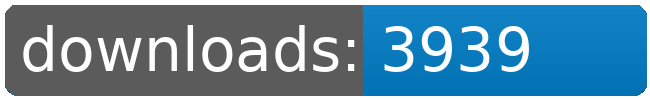
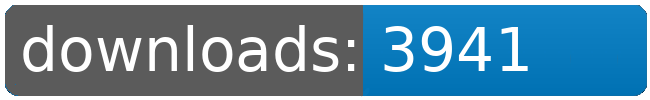
dl log written

Changed region(s): [[0.7077, 0.24, 0.8308, 0.72]]

diff --git a/README.md b/README.md
@@ -76,8 +76,8 @@
 		<td>3853</td>
 		<td>3873</td>
 		<td>3899</td>
-		<td>3939</td>
-		<td>+ 40</td>
+		<td>3941</td>
+		<td>+ 42</td>
 	</tr>
 	<tr>
 		<td>Solar.Sails</td>
@@ -109,8 +109,8 @@
 		<td></td>
 		<td></td>
 		<td></td>
-		<td>29311</td>
-		<td>236</td>
+		<td>29313</td>
+		<td>238</td>
 	</tr>
 </table>
 </sub></sup>
@@ -146,8 +146,8 @@
 		<td>3853</td>
 		<td>3873</td>
 		<td>3899</td>
-		<td>3939</td>
-		<td>+ 40</td>
+		<td>3941</td>
+		<td>+ 42</td>
 	</tr>
 	<tr>
 		<td>Bunsen.Burner</td>
@@ -223,8 +223,8 @@
 		<td></td>
 		<td></td>
 		<td></td>
-		<td>29311</td>
-		<td>236</td>
+		<td>29313</td>
+		<td>238</td>
 	</tr>
 </table>
 </sub></sup>
